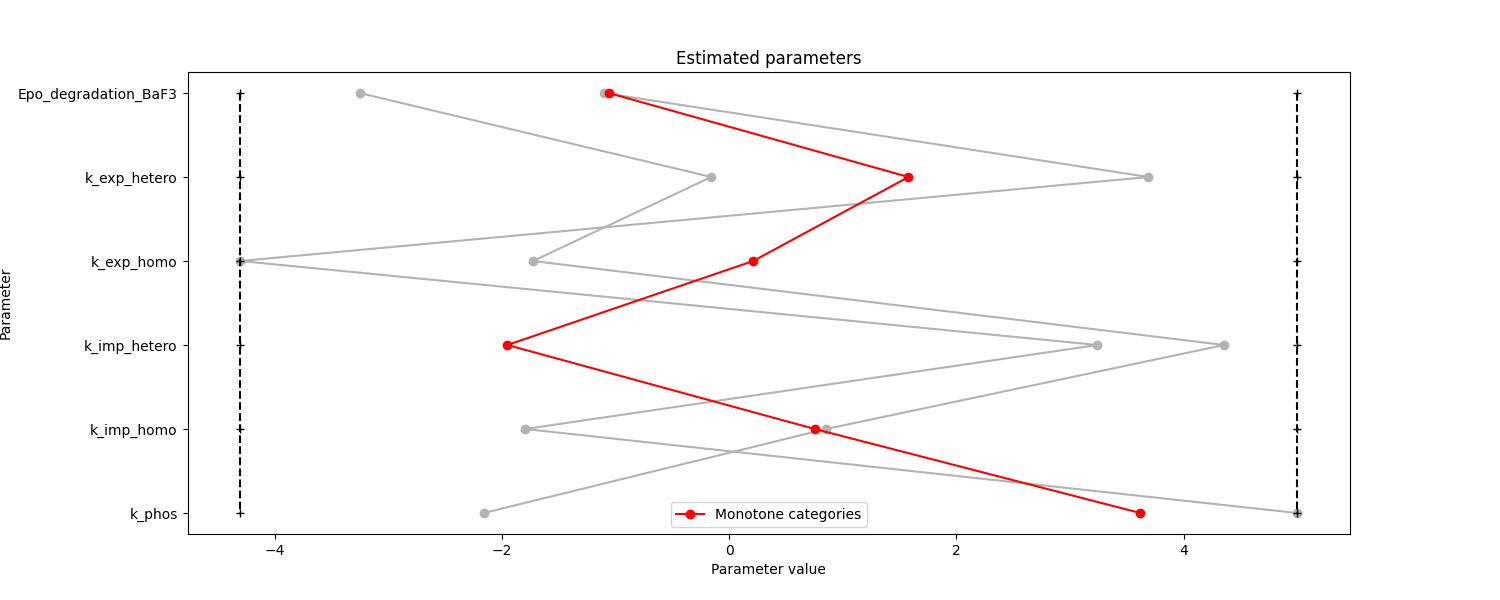
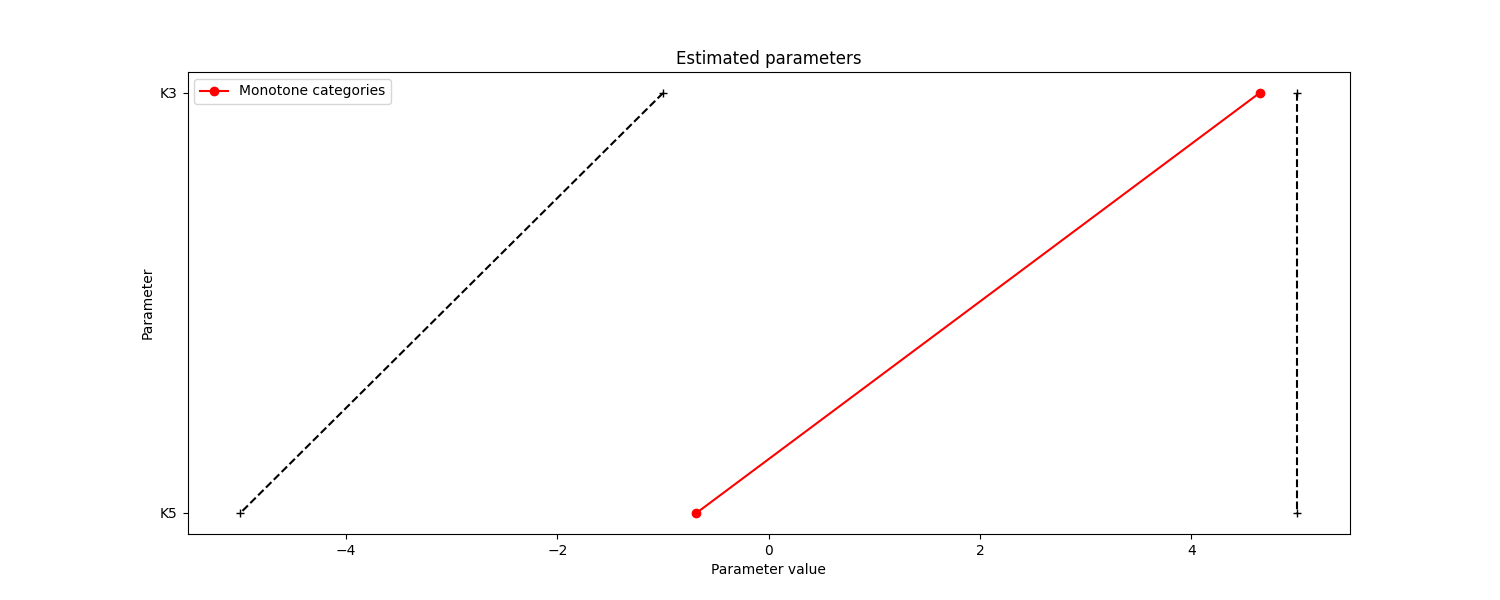
Analytical linear spline idea
- implemented the linear spline idea with post-processing to assure monotonicity of the mapping.
- conclusion: expectedly not really working that good, but the parameter estimation is surprisingly good with much less variance then optimal scaling.

diff --git a/pypesto/hierarchical/optimal_scaling_solver.py b/pypesto/hierarchical/optimal_scaling_solver.py
@@ -1,4 +1,6 @@
 from math import e
+import math
+import csv
 import warnings
 from typing import Dict, List, Tuple
 
@@ -63,19 +65,12 @@ class OptimalScalingInnerSolver(InnerSolver):
         optimal_surrogates = []
         #print("EVO SIM:", sim)
         for gr in problem.get_groups_for_xs(InnerParameter.OPTIMALSCALING):
-            xs = problem.get_xs_for_group(gr)
-            if (gr in problem.hard_constraints.group.values):
-                #print(gr, "Tu sam")
-                hard_constraints = problem.get_hard_constraints_for_group(gr)
-                #print(hard_constraints)
-                obj = calculate_obj_fun_for_hard_constraints(xs, sim, self.options, hard_constraints)
-                #fake optimization results, explain more ZEBO
-                surrogate_opt_results_from_hard_constraints = {'success' : True, 'fun' : obj}
-                optimal_surrogates.append(surrogate_opt_results_from_hard_constraints)
-                continue
-            #print("Running for group: ", gr)
-            surrogate_opt_results = optimize_surrogate_data(xs, sim, self.options)
-            optimal_surrogates.append(surrogate_opt_results)
+            quantitative_data = problem.get_quantitative_data_for_group(gr)
+            optimal_xi = spline_get_optimal_xi(gr, sim, quantitative_data)
+            optimal_xi = spline_ensure_monotonicity(optimal_xi)
+            obj = spline_calculate_obj(gr, optimal_xi, sim, quantitative_data)
+            obj_fun_from_spline = {'success' : True, 'fun' : obj}
+            optimal_surrogates.append(obj_fun_from_spline)
         return optimal_surrogates
 
     @staticmethod
@@ -128,56 +123,96 @@ class OptimalScalingInnerSolver(InnerSolver):
             par_opt_idx = par_opt_ids.index(par_opt)
             grad = 0.0
             #print(par_sim, par_opt)
-            for idx, gr in enumerate(problem.get_groups_for_xs(InnerParameter.OPTIMALSCALING)):
-                if (gr in problem.hard_constraints.group.values): #group of hard constraint measurements
-                    hard_constraints = problem.get_hard_constraints_for_group(gr)
-                    xi = get_xi_for_hard_constraints(gr, problem, hard_constraints, sim, self.options)
-                    sim_all = get_sim_all(problem.get_xs_for_group(gr), sim)
-                    sy_all = get_sy_all(problem.get_xs_for_group(gr), sy, par_sim_idx)
-                    #print(sim_all)
-                    #print(sy_all)
-
-                    problem.groups[gr]['W'] = problem.get_w(gr, sim_all)
-                    problem.groups[gr]['Wdot'] = problem.get_wdot(gr, sim_all, sy_all)
-
-                    res = np.block([xi[:problem.groups[gr]['num_datapoints']] - sim_all,
-                                    np.zeros(problem.groups[gr]['num_inner_params'] - problem.groups[gr]['num_datapoints'])])
-                    #print(res)
-
-                    dy_dtheta = get_dy_dtheta(gr, problem, sy_all)
-
-                    df_dtheta = res.dot(res.dot(problem.groups[gr]['Wdot']) - 2*problem.groups[gr]['W'].dot(dy_dtheta)) # -2 * problem.W.dot(dy_dtheta).dot(res)
-
-                    grad += df_dtheta
-                    continue
-
-                xi = get_xi(gr, problem, x_inner_opt[idx], sim, self.options)
-                sim_all = get_sim_all(problem.get_xs_for_group(gr), sim)
-                sy_all = get_sy_all(problem.get_xs_for_group(gr), sy, par_sim_idx)
+            for gr in range(1,3):
+                Jacobian_derivative = np.zeros((6,6))
+                rhs = np.zeros(6)
+                
+                quantitative_data = problem.get_quantitative_data_for_group(gr)
+                measurements=quantitative_data.measurement.values          
+                sim_all = get_sim_all_for_quantitative(gr, sim)
+                sy_all = get_sy_all_for_quantitative(gr, sy, par_sim_idx)
+                original_xi = spline_get_optimal_xi(gr, sim, quantitative_data)
+                xi = spline_ensure_monotonicity(original_xi)
+                with open('/home/zebo/Desktop/spline_xi.csv', 'a', newline='') as file:
+                    writer = csv.writer(file)
+                    writer.writerow(xi)
+                print("xi for group ", gr, ": \n", xi)
                 #print(sim_all)
-                #print(sy_all)
+                w = np.sum(np.abs(sim_all)) + 1e-8
+                w_dot = -1 * np.sum(sy_all) / (w**2)
+                
+                if(gr == 1.0):
+                    delta_c = 5
+                else: 
+                    delta_c = 1/6
+                
+                for y_k, z_k, y_dot_k in \
+                        zip(sim_all, measurements, sy_all):
+                    n=math.ceil(y_k / delta_c)
+                    i = n-1 #just the iterator to go over the Jacobian matrix
+                    if(n>6): n=7
+                    #ALSO MAKE THE LAST MONOTONICITY STEP
+                    if(n<7):
+                        if(n>1): Jacobian_derivative[i][i-1] += (y_k - (n-1)*delta_c) * ((n)*delta_c - y_k)
+                        Jacobian_derivative[i][i] += (y_k - (n-1)*delta_c)**2
+                        if(n>1): rhs[i] += - xi[i-1] * y_dot_k *((2*n-1)*delta_c - 2* y_k) 
+                        rhs[i] += z_k * y_dot_k * delta_c - xi[i] * y_dot_k * (y_k-(n-1)*delta_c)
+                    if(n>1):
+                        Jacobian_derivative[i-1][i-1] += (n*delta_c - y_k)**2
+                        if(n<7): Jacobian_derivative[i-1][i] += (y_k - (n-1)*delta_c) * ((n)*delta_c - y_k)
+                        if(n<7): rhs[i-1] += - xi[i] * y_dot_k * ((2*n-1)*delta_c - 2* y_k) 
+                        rhs[i-1] += z_k * ((n)*delta_c - y_k)*delta_c - xi[i-1] * y_dot_k * (y_k - n*delta_c)
+                    if(n==7):
+                        Jacobian_derivative[i-1][i-1] += delta_c**2
+                from scipy import linalg
+                #print(Jacobian_derivative)
+                #print(rhs)
+                xi_dot = linalg.lstsq(Jacobian_derivative, rhs, lapack_driver='gelsy')
+                #print(xi_dot[0])
+                #print(original_xi)
+                #print(Jacobian.dot(xi_dot[0]))
+                curr_max = original_xi[0]
+                curr_der = xi_dot[0][0]
+                #Ensure monotonicity:
+                for i in range(len(original_xi)):
+                    if(curr_max<=original_xi[i]):
+                        curr_max =original_xi[i]
+                        curr_der =xi_dot[0][i]
+                        continue
+                    xi_dot[0][i] = curr_der
+                df_dxi = np.zeros(6)
+                df_dyk = 0
+                res = 0
+                for y_k, z_k, y_dot_k in \
+                        zip(sim_all, measurements, sy_all):
+                    n=math.ceil(y_k / delta_c)
+                    i=n-1
+                    #calculate df_dxi
+                    if(n<7):
+                        df_dxi[i] += -2 * (z_k - (y_k - (n-1)*delta_c)*(xi[i] - xi[i-1])/delta_c - xi[i-1]) * (y_k - (n-1)*delta_c) / delta_c
+                    if(n>1 and n<7):
+                        df_dxi[i-1] += -2 * (z_k - (y_k - (n-1)*delta_c)*(xi[i] - xi[i-1])/delta_c - xi[i-1]) * (n*delta_c - y_k) / delta_c
+                    if(n==7):
+                        df_dxi[i-1] += -2 * (z_k - xi[i-1])
+                    #calculate df_dyk (without w_dot term)
+                    if(n < 7 and n >1):
+                        df_dyk+= -2 * (z_k - (y_k - delta_c * (n-1))*(xi[i] - xi[i-1])/delta_c -xi[i-1]) * (xi[i] - xi[i-1]) * y_dot_k /delta_c
+                    elif(n==1):
+                        df_dyk+= -2 * (z_k - y_k*xi[i]/delta_c) * xi[i] * y_dot_k /delta_c
+                    #calculate res for the w_dot term
+                    if(n < 7 and n >1):
+                        res+= (z_k - (y_k - delta_c * (n-1))*(xi[i] - xi[i-1])/delta_c -xi[i-1])**2
+                    elif(n==7):
+                        res+= (z_k - xi[i-1])**2
+                    elif(n==1):
+                        res+= (z_k - y_k*xi[i]/delta_c)**2
 
-                problem.groups[gr]['W'] = problem.get_w(gr, sim_all)
-                problem.groups[gr]['Wdot'] = problem.get_wdot(gr, sim_all, sy_all)
-
-                res = np.block([xi[:problem.groups[gr]['num_datapoints']] - sim_all,
-                                np.zeros(problem.groups[gr]['num_inner_params'] - problem.groups[gr]['num_datapoints'])])
-                #print(res)
-                df_dxi = 2 * problem.groups[gr]['W'].dot(res)
-
-                dy_dtheta = get_dy_dtheta(gr, problem, sy_all)
-
-                dd_dtheta = problem.get_dd_dtheta(gr, problem.get_xs_for_group(gr), sim_all, sy_all)
-                d = problem.get_d(gr, problem.get_xs_for_group(gr), sim_all, self.options['minGap'])
-
-                mu = get_mu(gr, problem, xi, res, d)
-
-                dxi_dtheta = calculate_dxi_dtheta(gr, problem, xi, mu, dy_dtheta, res, d, dd_dtheta)
-
-                df_dtheta = res.dot(res.dot(problem.groups[gr]['Wdot']) - 2*problem.groups[gr]['W'].dot(dy_dtheta)) # -2 * problem.W.dot(dy_dtheta).dot(res)
-
-                grad += dxi_dtheta.dot(df_dxi) + df_dtheta
+                df_dyk = np.divide(df_dyk, w)
+                df_dyk += w_dot * res
+                df_dxi = np.divide(df_dxi, w)
+                grad += df_dxi.dot(xi_dot[0]) + df_dyk
             snllh[par_opt_idx] = grad
+        print(snllh)
         #print("I calculated the grad with optimized inner pars")
         return snllh
 
@@ -193,6 +228,107 @@ class OptimalScalingInnerSolver(InnerSolver):
                    'minGap': 1e-16}
         return options
 
+def spline_get_optimal_xi(gr: float,
+                          sim: List[np.ndarray],
+                          quantitative_data: pd.DataFrame):
+        measurements=quantitative_data.measurement.values          
+        sim_all = get_sim_all_for_quantitative(gr, sim)
+        #breakpoint()  
+        # if(gr==1.0):
+        #     print("Group ", gr, ": \n", measurements)   
+        #     print(sim_all)
+        Jacobian = np.zeros((6,6))
+        rhs = np.zeros(6)
+        if(gr == 1.0):
+            delta_c = 5
+        else: 
+            delta_c = 1/6
+        for y_k, z_k in \
+                zip(sim_all, measurements):
+            n=math.ceil(y_k / delta_c)
+            if(n>6): n=7
+            i = n-1 #just the iterator to go over the Jacobian matrix
+            #ALSO MAKE THE LAST MONOTONICITY STEP
+            if(n<7):
+                if(n>1): Jacobian[i][i-1] += (y_k - (n-1)*delta_c) * ((n)*delta_c - y_k)
+                Jacobian[i][i] += (y_k - (n-1)*delta_c)**2
+                rhs[i] += z_k * (y_k - (n-1)*delta_c)*delta_c
+            if(n>1 and n<7):
+                Jacobian[i-1][i-1] += (n*delta_c - y_k)**2
+                if(n<7): Jacobian[i-1][i] += (y_k - (n-1)*delta_c) * ((n)*delta_c - y_k)
+                rhs[i-1] += z_k * ((n)*delta_c - y_k)*delta_c
+            if(n==7):
+                Jacobian[i-1][i-1] += delta_c**2
+                rhs[i-1] += z_k * delta_c**2
+        
+        from scipy import linalg
+        #print(Jacobian)
+        #print(rhs)
+        optimal_xi = linalg.lstsq(Jacobian, rhs, lapack_driver='gelsy')
+        #breakpoint()
+        #if(gr==1.0): print(optimal_xi[0])
+        #print(Jacobian.dot(optimal_xi[0]))
+        return optimal_xi[0]
+
+def spline_calculate_obj(gr: float,
+                   optimal_xi: np.ndarray,
+                   sim: List[np.ndarray],
+                   quantitative_data: pd.DataFrame):
+        obj = 0
+        measurements=quantitative_data.measurement.values          
+        sim_all = get_sim_all_for_quantitative(gr, sim)
+        w = np.sum(np.abs(sim_all)) + 1e-8
+        if(gr == 1.0):
+            delta_c = 5
+        else: 
+            delta_c = 1/6
+        
+        for y_k, z_k in \
+                zip(sim_all, measurements):
+            n=math.ceil(y_k / delta_c)
+            i = n-1
+            if(n < 7 and n >1):
+                obj+= (z_k - (y_k - delta_c * (n-1))*(optimal_xi[i] - optimal_xi[i-1])/delta_c -optimal_xi[i-1])**2
+            elif(n==7):
+                obj+= (z_k - optimal_xi[i-1])**2
+            elif(n==1):
+                obj+= (z_k - y_k*optimal_xi[i]/delta_c)**2
+        obj = np.divide(obj, w)
+        #print("Obj for group ", gr, ": ", obj)
+        return obj
+
+def spline_ensure_monotonicity(optimal_xi: np.ndarray):
+    curr_max = optimal_xi[0]
+    temp = np.copy(optimal_xi)
+    #Ensure monotonicity:
+    for i in range(len(temp)):
+        if(curr_max<temp[i]):
+            curr_max =temp[i]
+            continue
+        temp[i] = curr_max
+    #breakpoint()
+    #print(optimal_xi[0])
+    return temp
+
+def get_sim_all_for_quantitative(gr, sim: List[np.ndarray]) -> list:
+    """"Get list of all simulations for quantitative group"""
+    gr = int(gr) - 1
+    sim = np.asarray(sim)
+    sim_temp = sim[:, :, gr]
+    sim_all = np.zeros(sim_temp.size)
+    for i in range(len(sim_temp)):
+        for j in range(len(sim_temp[i])):
+            sim_all[i+j] = sim_temp[i][j]
+    return sim_all
+
+def get_sy_all_for_quantitative(gr, sy, par_idx):
+    sy_all = []
+    gr = int(gr) -1
+    for sy_i in sy:
+            sim_sy = sy_i[:, par_idx, gr]
+            for sim_sy_i in sim_sy:
+                sy_all.append(sim_sy_i)
+    return np.array(sy_all)
 
 def calculate_dxi_dtheta(gr,
                          problem: OptimalScalingProblem,

diff --git a/pypesto/hierarchical/optimal_scaling_problem.py b/pypesto/hierarchical/optimal_scaling_problem.py
@@ -15,9 +15,11 @@ class OptimalScalingProblem(InnerProblem):
     def __init__(self,
                  xs: List[InnerParameter],
                  data: List[np.ndarray],
+                 quantitative_data: pd.DataFrame,
                  hard_constraints: pd.DataFrame):
         super().__init__(xs, data)
         self.hard_constraints = hard_constraints
+        self.quantitative_data = quantitative_data
         self.groups = {}
 
         for idx, gr in enumerate(self.get_groups_for_xs(InnerParameter.OPTIMALSCALING)):
@@ -181,6 +183,9 @@ class OptimalScalingProblem(InnerProblem):
 
     def get_hard_constraints_for_group(self, group: float):
         return self.hard_constraints[self.hard_constraints['group'].astype(float)==group]
+    
+    def get_quantitative_data_for_group(self, group: float):
+        return self.quantitative_data[self.quantitative_data['group'].astype(float)==group]
 
 
 
@@ -190,6 +195,9 @@ def qualitative_inner_problem_from_petab_problem(
         edatas: List['amici.ExpData']):
     # get hard constrained measurements from measurement.df
     hard_constraints=get_hard_constraints(petab_problem)
+
+    #get quantitative data from measurement.df
+    quantitative_data = get_quantitative_data(petab_problem.measurement_df, amici_model)
 
     print("Evo hard cons: \n", hard_constraints)
     # inner parameters
@@ -213,7 +221,7 @@ def qualitative_inner_problem_from_petab_problem(
     for par in inner_parameters:
         par.ixs = ix_matrices[par.id]
 
-    return OptimalScalingProblem(inner_parameters, edatas, hard_constraints)
+    return OptimalScalingProblem(inner_parameters, edatas, quantitative_data, hard_constraints)
 
 def get_hard_constraints(petab_problem: petab.Problem):
     measurement_df = petab_problem.measurement_df
@@ -234,3 +242,15 @@ def get_hard_constraints(petab_problem: petab.Problem):
                                     'seen': str(group) + '&' + str(category)}, ignore_index=True)
                 #print(hard_cons_df, sep='\n')
     return hard_cons_df
+
+def get_quantitative_data(measurement_df: pd.DataFrame, amici_model: 'amici.Model'):
+    observable_ids = amici_model.getObservableIds()
+    quantitative_data = pd.DataFrame(columns=['observableId', 'simulationConditionId', 'measurement', 'group'])
+
+    for index, row in measurement_df.iterrows():
+        group = observable_ids.index(row['observableId']) + 1
+        quantitative_data = quantitative_data.append({'observableId': row["observableId"],
+                                    'simulationConditionId': row['simulationConditionId'],
+                                    'measurement': row["measurement"],
+                                    'group' : float(group) }, ignore_index=True)
+    return quantitative_data

diff --git a/test/test_hard_constraints.py b/test/test_hard_constraints.py
@@ -74,8 +74,8 @@ def main():
     # petab_problem = petab.Problem.from_yaml(
     # '/home/zebo/Documents/GitHub/examples/Boehm_JProteomeRes2014OptimalScaling/Boehm_JProteomeRes2014OptimalScaling.yaml')
     
-    petab_problem = petab.Problem.from_yaml(
-    '/home/zebo/Documents/GitHub/examples/Boehm_JProteomeRes2014OptimalScaling_quantitative/Boehm_JProteomeRes2014OptimalScaling.yaml')
+   # petab_problem = petab.Problem.from_yaml(
+   # '/home/zebo/Documents/GitHub/examples/Boehm_JProteomeRes2014OptimalScaling_quantitative/Boehm_JProteomeRes2014OptimalScaling.yaml')
 
    # petab_problem = petab.Problem.from_yaml(
    # '/home/zebo/Documents/GitHub/examples/Boehm_JProteomeRes2014OptimalScaling_HardConstraints/Boehm_JProteomeRes2014OptimalScaling_HardConstraints.yaml')
@@ -83,8 +83,8 @@ def main():
    # petab_problem = petab.Problem.from_yaml(
    # '/home/zebo/Documents/Benchmark-Models-PEtab-master/Benchmark-Models/Boehm_JProteomeRes2014/Boehm_JProteomeRes2014.yaml')
 
-   # petab_problem = petab.Problem.from_yaml(
-   # '/home/zebo/Documents/GitHub/examples/Raf_Mitra_NatCom2018OptimalScaling_3CatQual/Raf_Mitra_NatCom2018OptimalScaling_3CatQual.yaml')
+    petab_problem = petab.Problem.from_yaml(
+    '/home/zebo/Documents/GitHub/examples/Raf_Mitra_NatCom2018OptimalScaling_3CatQual/Raf_Mitra_NatCom2018OptimalScaling_3CatQual.yaml')
     
    # petab_problem = petab.Problem.from_yaml(
    # '/home/zebo/Documents/GitHub/examples/Raf_Mitra_NatCom2018OptimalScaling_3CatQual_hard_constraints/Raf_Mitra_NatCom2018OptimalScaling_3CatQual.yaml')
@@ -92,8 +92,8 @@ def main():
    # petab.flatten_timepoint_specific_output_overrides(petab_problem) #this is useless for us, don't use it, comment out the error
 
     importer = pypesto.petab.PetabImporter(petab_problem)
-    optimizer = get_optimizer('L-BFGS-B')
-    results = run_optimization(importer, optimizer, history_name =f'histories/Boehm_histories/' + f'First_try/history_Boehm_' + '_{id}.csv', num_starts=3, min_gap=1e-16)
+    optimizer = get_optimizer('SLSQP')
+    results = run_optimization(importer, optimizer, history_name =f'histories/Raf_histories/' + f'Spline/history_raf_' + '_{id}.csv', num_starts=1, min_gap=1e-16)
 
 
     pypesto.visualize.waterfall([results],
@@ -104,7 +104,7 @@ def main():
     plt.savefig("plots/waterfall_Boehm.png")
 
     pypesto.visualize.parameters([results],
-                                 parameter_indices = [0, 1, 2, 3, 4, 5],
+                                 parameter_indices = [2, 3],
                                  size=(15,6), 
                                  legends=['Monotone categories', 'Hard constraints'],
                                  balance_alpha=True)
